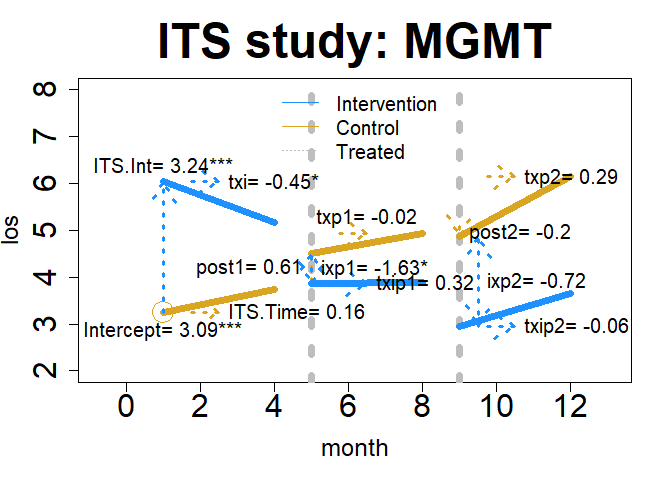
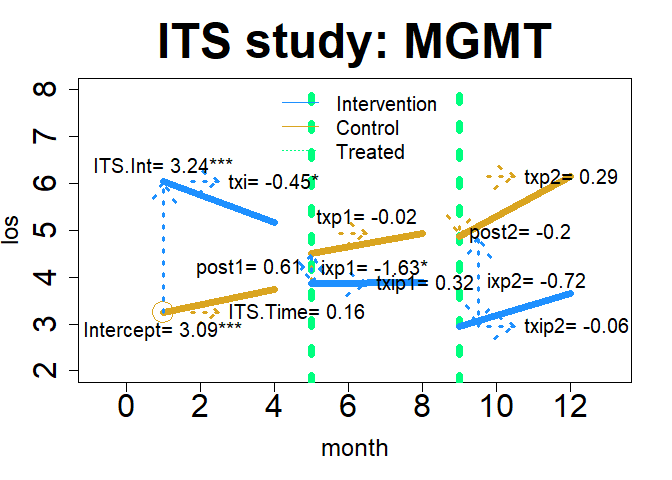
plot.assess: tcol

diff --git a/README.md b/README.md
@@ -895,7 +895,7 @@ Using all plot options
 
 ``` r
 plot(im22, "ITS", add.legend="top", xlim=c(-.75, 13.1), ylim=c(2, 8), 
-     main="ITS study: MGMT", col=c("dodgerblue","goldenrod"), lwd=7, cex=3, cex.axis=2, cex.lab=1.5,  cex.main=3, cex.legend=1.25, arrow=TRUE, xshift=c(0, .5), cex.text=1.25, name=F, coefs=TRUE, round.c=2, pos.text= list("txp1"=3, "post2"=4))
+     main="ITS study: MGMT", col=c("dodgerblue","goldenrod"), lwd=7, cex=3, cex.axis=2, cex.lab=1.5,  cex.main=3, cex.legend=1.25, arrow=TRUE, xshift=c(0, .5), cex.text=1.25, name=F, coefs=TRUE, round.c=2, pos.text= list("txp1"=3, "post2"=4), tcol="springgreen")
 ```
 
 <img src="man/figures/README-revITS4-1.png" width="100%" />
